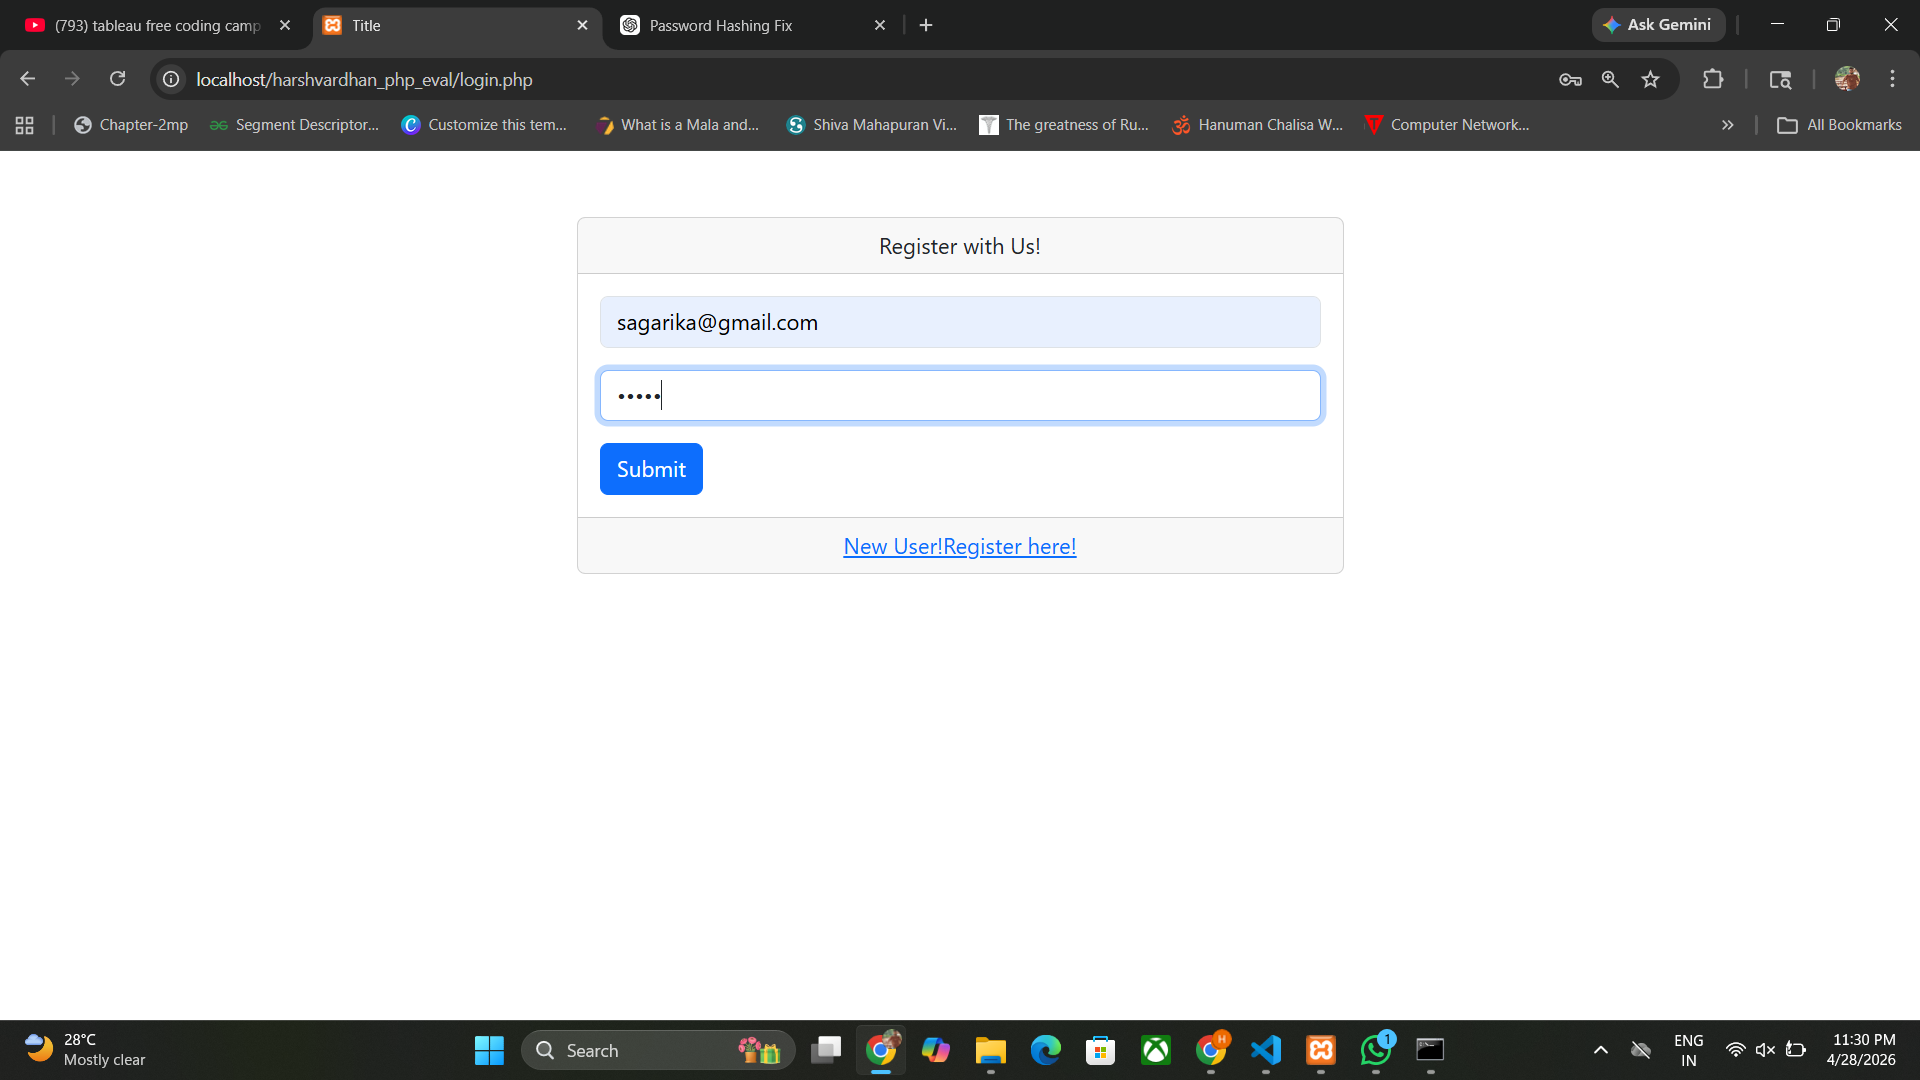
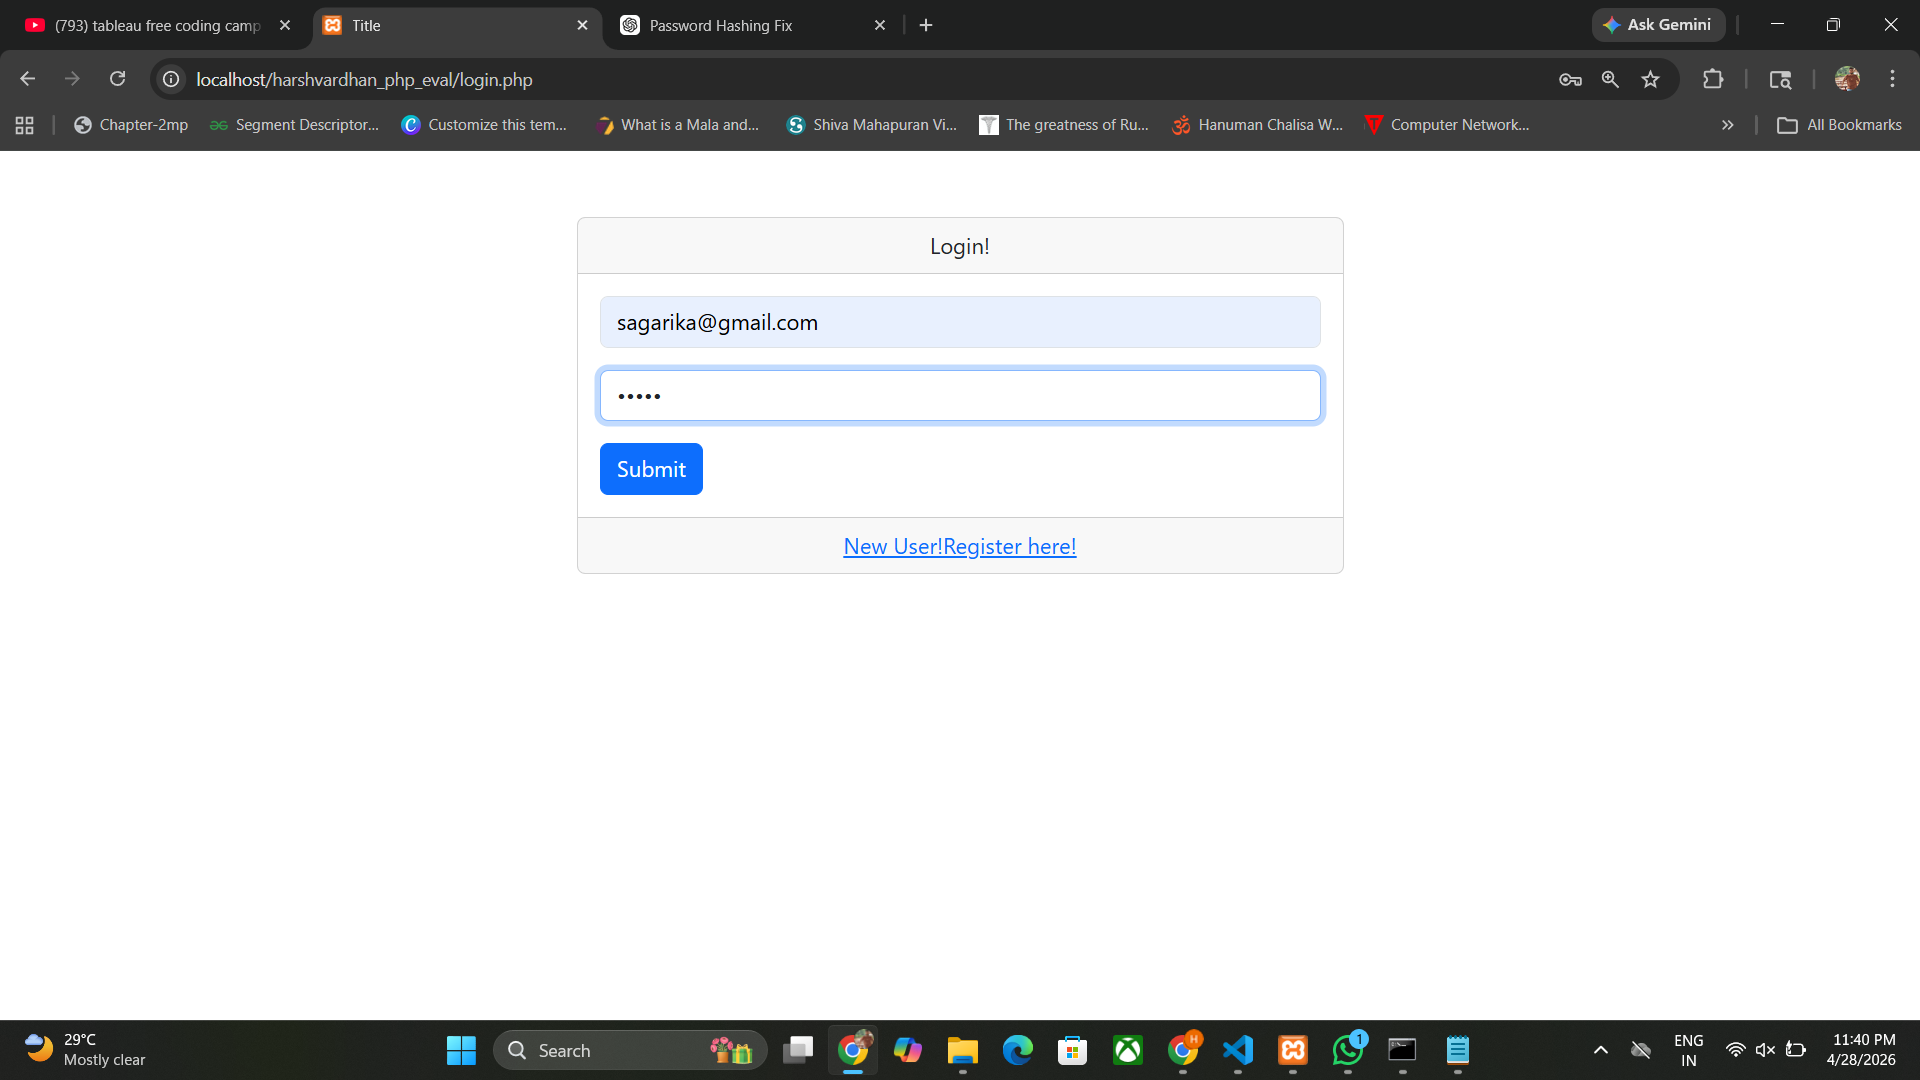
added screenshots

Changed region(s): [[0.375, 0.9472, 0.7812, 1.0], [0.2188, 0.9472, 0.3125, 1.0], [0.4688, 0.2139, 0.5312, 0.2444]]

diff --git a/login.php b/login.php
@@ -64,7 +64,7 @@
             >
                 <form action="" method="POST">
                     <div class="card">
-                        <div class="card-header text-center">Register with Us!</div>
+                        <div class="card-header text-center">Login!</div>
                         <div class="card-body">
 
                             <div class="mb-3">
